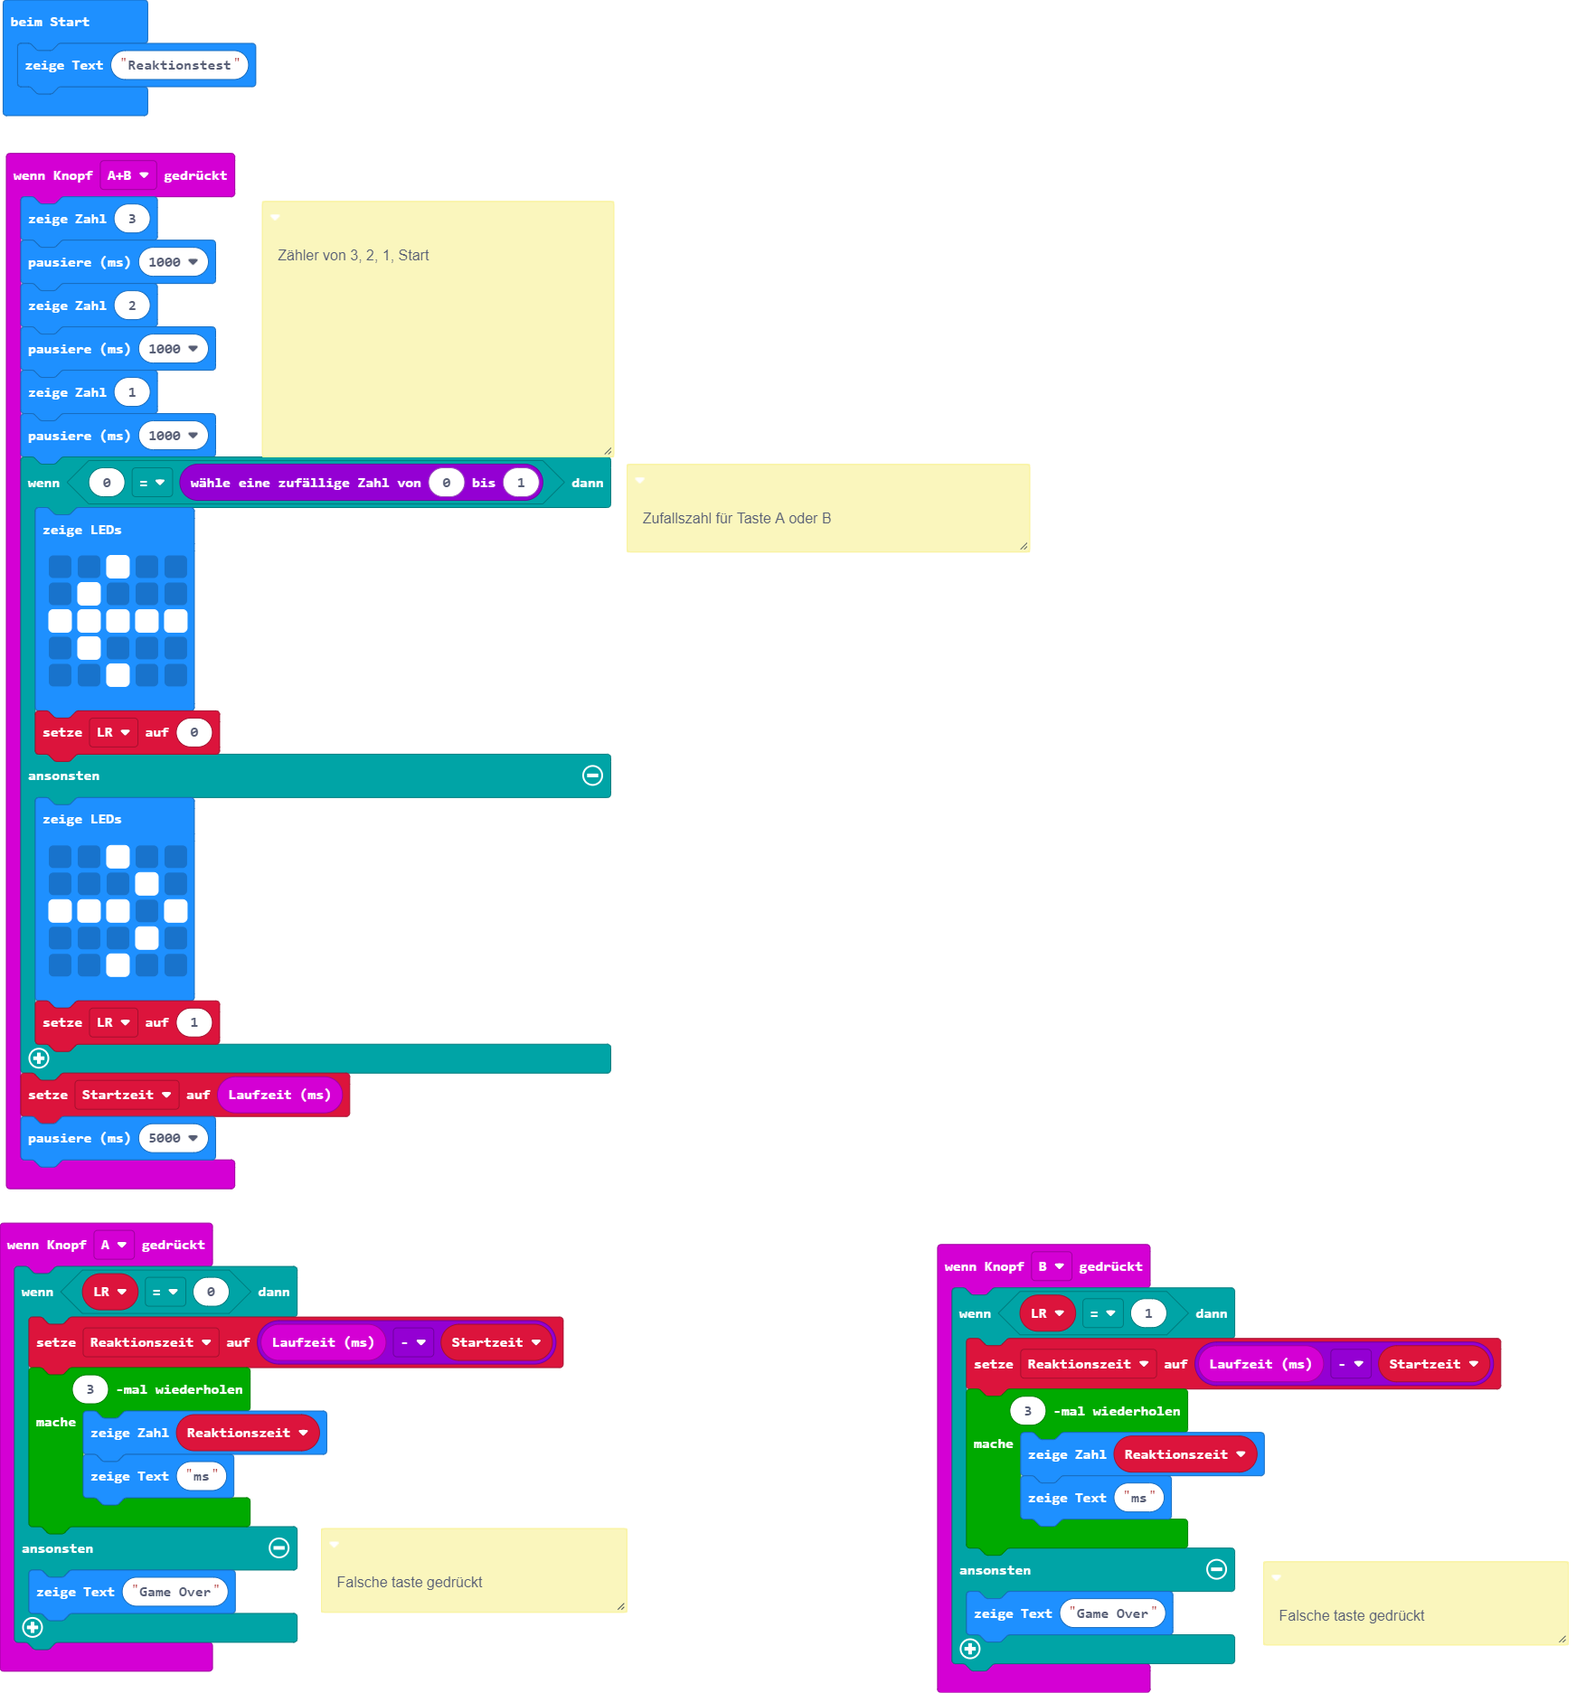
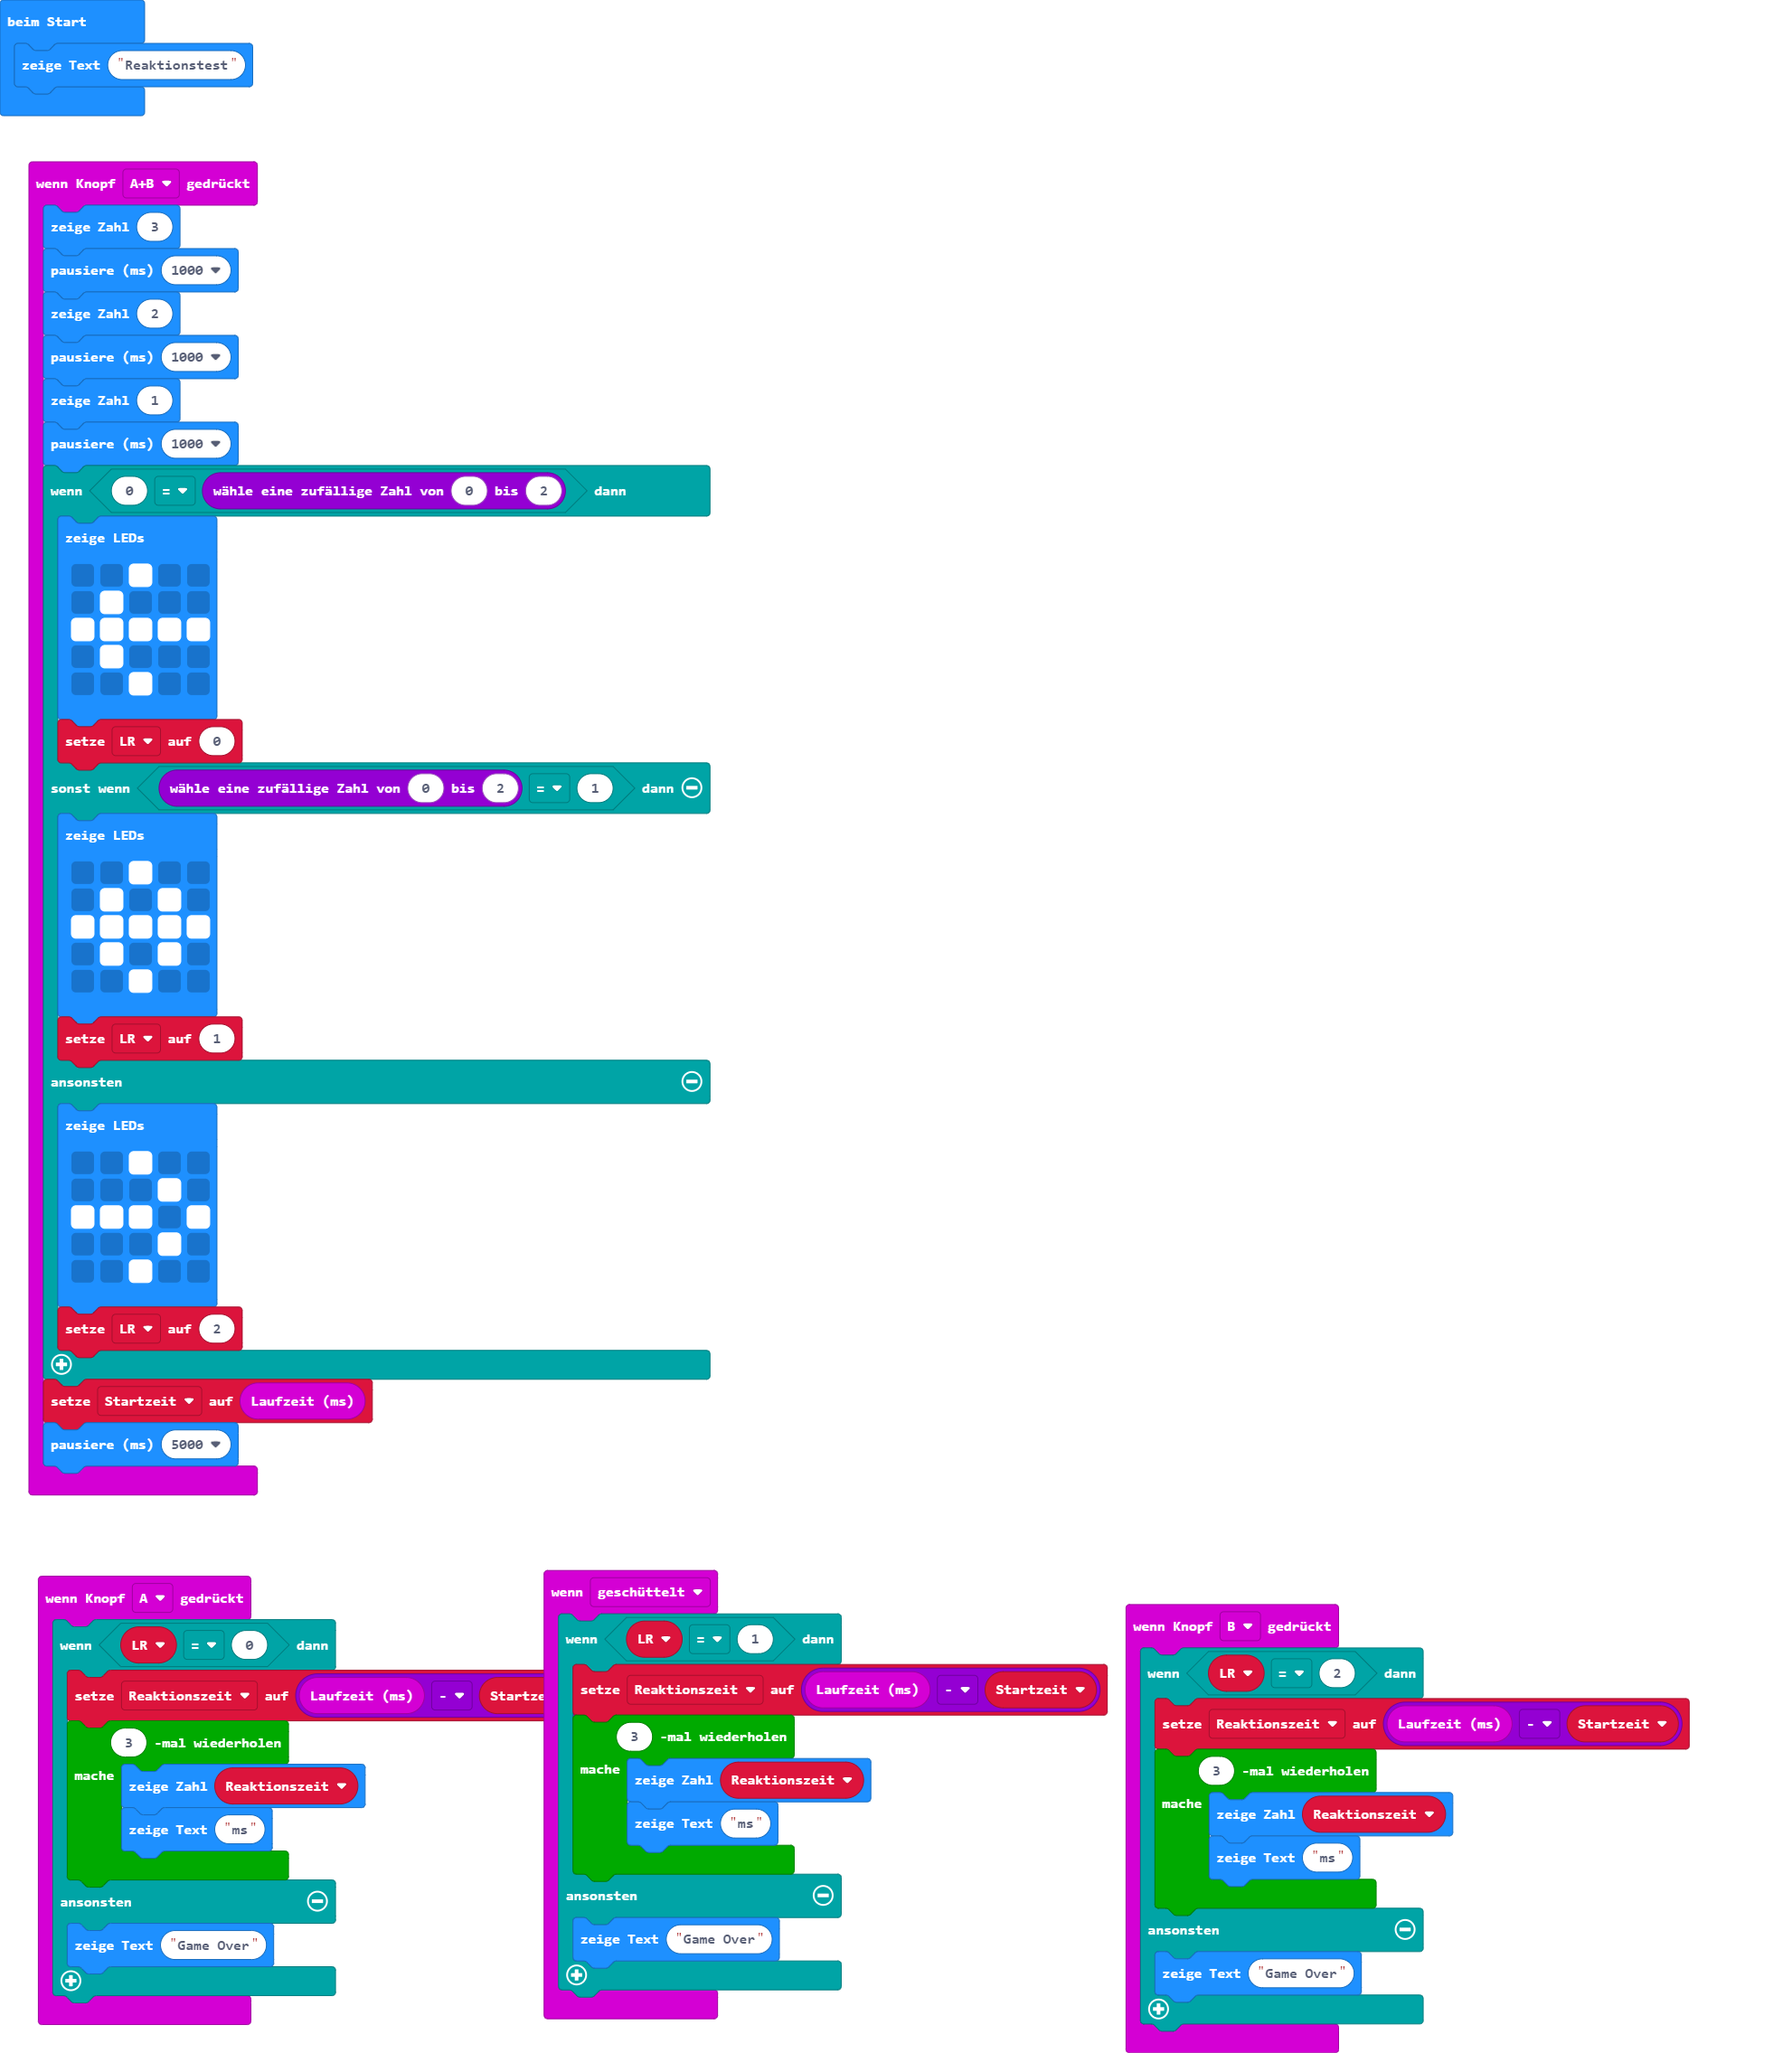
Reaktionstest Überarbeitet 1.0

diff --git a/main.ts b/main.ts
@@ -1,6 +1,3 @@
-/**
- * Falsche taste gedrückt
- */
 input.onButtonPressed(Button.A, function () {
     if (LR == 0) {
         Reaktionszeit = input.runningTime() - Startzeit
@@ -12,12 +9,17 @@ input.onButtonPressed(Button.A, function () {
         basic.showString("Game Over")
     }
 })
-/**
- * Zähler von 3, 2, 1, Start
- */
-/**
- * Zufallszahl für Taste A oder B
- */
+input.onGesture(Gesture.Shake, function () {
+    if (LR == 1) {
+        Reaktionszeit = input.runningTime() - Startzeit
+        for (let index = 0; index < 3; index++) {
+            basic.showNumber(Reaktionszeit)
+            basic.showString("ms")
+        }
+    } else {
+        basic.showString("Game Over")
+    }
+})
 input.onButtonPressed(Button.AB, function () {
     basic.showNumber(3)
     basic.pause(1000)
@@ -25,7 +27,7 @@ input.onButtonPressed(Button.AB, function () {
     basic.pause(1000)
     basic.showNumber(1)
     basic.pause(1000)
-    if (0 == randint(0, 1)) {
+    if (0 == randint(0, 2)) {
         basic.showLeds(`
             . . # . .
             . # . . .
@@ -34,6 +36,15 @@ input.onButtonPressed(Button.AB, function () {
             . . # . .
             `)
         LR = 0
+    } else if (randint(0, 2) == 1) {
+        basic.showLeds(`
+            . . # . .
+            . # . # .
+            # # # # #
+            . # . # .
+            . . # . .
+            `)
+        LR = 1
     } else {
         basic.showLeds(`
             . . # . .
@@ -42,16 +53,13 @@ input.onButtonPressed(Button.AB, function () {
             . . . # .
             . . # . .
             `)
-        LR = 1
+        LR = 2
     }
     Startzeit = input.runningTime()
     basic.pause(5000)
 })
-/**
- * Falsche taste gedrückt
- */
 input.onButtonPressed(Button.B, function () {
-    if (LR == 1) {
+    if (LR == 2) {
         Reaktionszeit = input.runningTime() - Startzeit
         for (let index = 0; index < 3; index++) {
             basic.showNumber(Reaktionszeit)
